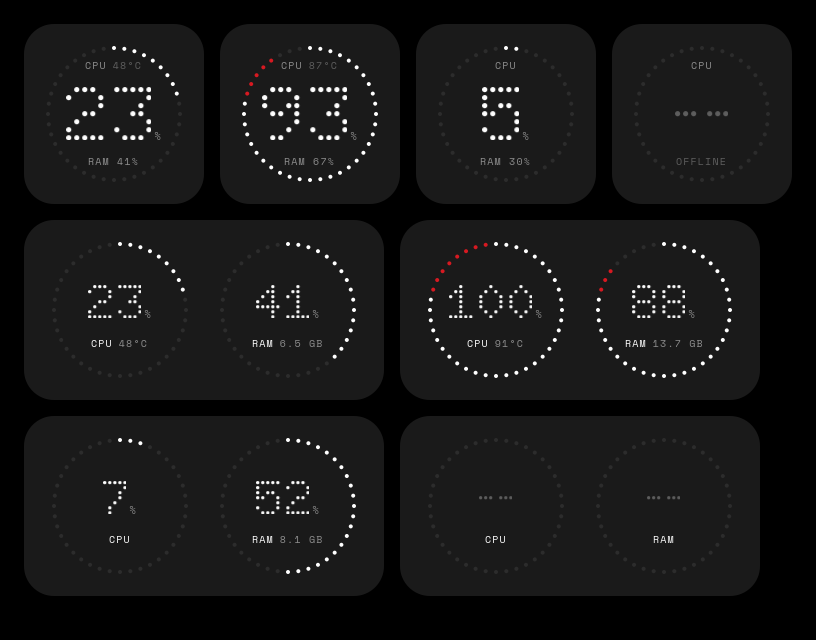
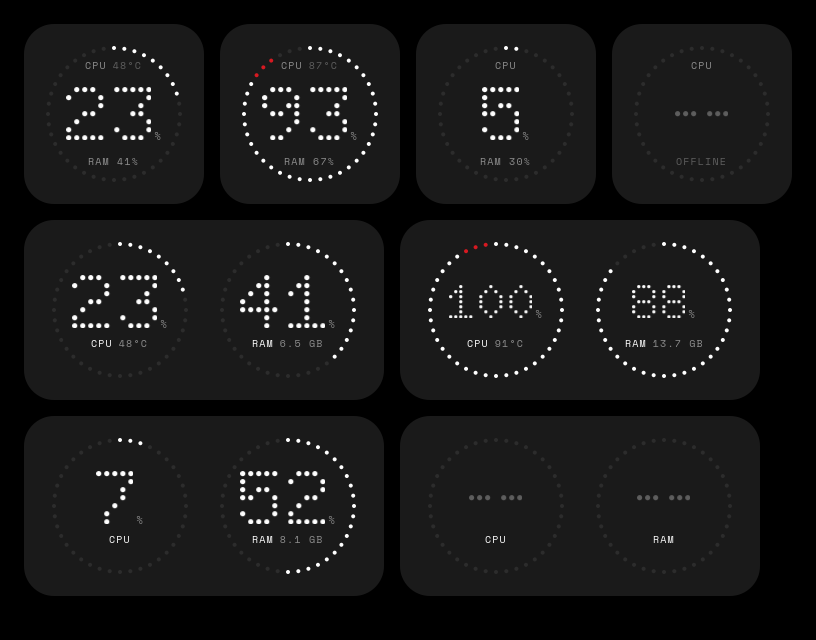
widgets: round 5

diff --git a/plasma/plasmoids/org.nothing.media/contents/ui/MediaFace.qml b/plasma/plasmoids/org.nothing.media/contents/ui/MediaFace.qml
@@ -39,7 +39,7 @@ Card {
         }
         Label {
             size: Math.max(10, Math.round(10 * root.u))
-            color: root.playing ? Theme.red : Theme.fg2
+            color: Theme.fg2
             text: root.playing ? "Now playing" : "Paused"
         }
     }
@@ -54,7 +54,7 @@ Card {
         DotGlyph {
             anchors.centerIn: parent
             anchors.horizontalCenterOffset: root.playing ? 0 : 1
-            width: 16; height: 16
+            width: Math.min(16, Math.round(parent.diameter * 0.4)); height: width
             icon: root.playing ? "pause" : "play"
             dimColor: "transparent"
             litColor: Theme.bg
@@ -117,10 +117,12 @@ Card {
                 litColor: Theme.fg2
             }
         }
+        // small disk at transport scale, aligned to the tile's bottom edge
         PlayButton {
             visible: root.hasMedia
-            anchors.right: parent.right; anchors.top: parent.top
-            diameter: Math.round(38 * root.u)
+            anchors.right: parent.right
+            y: portrait.height - height
+            diameter: Math.round(30 * root.u)
         }
         Column {
             id: band
@@ -147,21 +149,27 @@ Card {
             }
         }
 
-        // idle: vinyl + IDLE, nothing else
-        DotGlyph {
+        // idle: the black art tile with the vinyl inside, and IDLE in dots
+        Rectangle {
             visible: !root.hasMedia
-            x: -pitch * 0.14; y: -pitch * 0.14
-            width: Math.round(72 * root.u); height: width
-            icon: "vinyl"
-            dimColor: "transparent"
-            litColor: Theme.fg2
-            halfColor: Theme.fg2
+            width: Math.round(sq.height - idleText.height - 12 * root.u); height: width
+            radius: root.innerRadius
+            color: Theme.bg
+            DotGlyph {
+                anchors.centerIn: parent
+                width: parent.width * 0.66; height: width
+                icon: "vinyl"
+                dimColor: "transparent"
+                litColor: Theme.fg2
+                halfColor: Theme.fg2
+            }
         }
         DotString {
+            id: idleText
             visible: !root.hasMedia
             anchors.left: parent.left; anchors.bottom: parent.bottom
             text: "IDLE"
-            size: Math.max(40, Math.round(48 * root.u))
+            pitch: 5
             width: implicitWidth; height: implicitHeight
         }
     }
@@ -239,17 +247,16 @@ Card {
                 SkipButton { anchors.verticalCenter: parent.verticalCenter; glyph: "next"; can: root.canNext; onClicked: root.next() }
             }
 
-            // idle: IDLE + one caption
+            // idle: IDLE only
             Column {
                 visible: !root.hasMedia
                 anchors.left: parent.left; anchors.bottom: parent.bottom
                 spacing: Math.round(12 * root.u)
                 DotString {
                     text: "IDLE"
-                    size: Math.max(40, Math.round(56 * root.u))
+                    pitch: 5
                     width: implicitWidth; height: implicitHeight
                 }
-                Label { size: Math.max(10, Math.round(10 * root.u)); color: Theme.fg3; text: "No media" }
             }
         }
     }

diff --git a/plasma/plasmoids/org.nothing.weather/contents/ui/WeatherFace.qml b/plasma/plasmoids/org.nothing.weather/contents/ui/WeatherFace.qml
@@ -41,13 +41,13 @@ Card {
     }
     function deg(v) { return (v === null || v === undefined || isNaN(v)) ? "--" : Math.round(v) + "°"; }
     readonly property string hiLo: "H" + deg(hi) + " L" + deg(lo)
-    // Short condition names (≤10 chars, fits beside H/L): never ellipsised.
+    // Short condition names (≤14 chars; the wide footer runs at 10px): never ellipsised.
     readonly property string condition: {
         if (!live) return "NO DATA";
         const c = code;
-        if (c === null || c === undefined) return (desc || "").toUpperCase().slice(0, 10);
+        if (c === null || c === undefined) return (desc || "").toUpperCase().slice(0, 14);
         if (c <= 1) return "CLEAR";
-        if (c === 2) return "SOME CLOUD";
+        if (c === 2) return "PARTLY CLOUDY";
         if (c === 3) return "CLOUDY";
         if (c === 45 || c === 48) return "FOG";
         if (c >= 51 && c <= 57) return "DRIZZLE";
@@ -56,7 +56,7 @@ Card {
         if ((c >= 71 && c <= 77) || c === 85 || c === 86) return "SNOW";
         if (c >= 80 && c <= 82) return "SHOWERS";
         if (c >= 95) return "STORM";
-        return (desc || "").toUpperCase().slice(0, 10);
+        return (desc || "").toUpperCase().slice(0, 14);
     }
 
     padding: Math.round(20 * u)
@@ -99,7 +99,6 @@ Card {
             icon: root.glyph + "_s"
             dotRatio: 0.67
             dimColor: "transparent"
-            trimTop: true; trimBottom: true
             litColor: root.live ? Theme.fg : Theme.fg3
             halfColor: root.live ? Theme.fg2 : Theme.fg3
         }
@@ -165,15 +164,19 @@ Card {
             }
             Caption {
                 anchors.left: parent.left; anchors.bottom: parent.bottom
-                width: parent.width - wHl.implicitWidth - 8
+                width: parent.width - wHl.implicitWidth - 6
                 clip: true
                 text: root.condition
                 color: Theme.fg
+                font.pixelSize: Math.max(10, Math.round(10 * root.u))
+                font.letterSpacing: 0.6
             }
             Caption {
                 id: wHl
                 anchors.right: parent.right; anchors.bottom: parent.bottom
                 text: root.hiLo
+                font.pixelSize: Math.max(10, Math.round(10 * root.u))
+                font.letterSpacing: 0.6
             }
         }
     }

diff --git a/plasma/plasmoids/org.nothing.system/contents/ui/SystemFace.qml b/plasma/plasmoids/org.nothing.system/contents/ui/SystemFace.qml
@@ -39,10 +39,13 @@ Card {
         property real maxPitch: 8          // largest house pitch to try
         property real fixedPitch: 0        // > 0: always this pitch (shared by neighbours)
         property real numberOffset: 0
+        property bool mayWarn: true        // one red per widget: only the worst metric
         DotRing {
             anchors.fill: parent
             value: root.ok(g.value) ? g.value : 0
-            warn: 0.8                      // only dots past 80 % at the leading end turn red
+            warn: 0.8                      // only dots past 80 % …
+            warnTail: 3                    // … and only at the leading end of the fill
+            warnEnabled: g.mayWarn
             dots: 40
             dotSize: Math.max(3, 4 * root.u)
         }
@@ -121,7 +124,9 @@ Card {
                 id: wg
                 width: wideRow.d; height: width
                 value: modelData.v
-                fixedPitch: 5
+                // shared pitch 8; both drop to 5 only while either reads "100"
+                fixedPitch: root.pct(root.cpu).length > 2 || root.pct(root.mem).length > 2 ? 5 : 8
+                mayWarn: modelData.k === (root.ok(root.cpu) && root.ok(root.mem) && root.mem > root.cpu ? "RAM" : "CPU")
                 numberOffset: -Math.round(8 * root.u)
                 Row {
                     anchors.horizontalCenter: parent.horizontalCenter

diff --git a/plasma/plasmoids/shared/DotRing.qml b/plasma/plasmoids/shared/DotRing.qml
@@ -7,6 +7,8 @@ Canvas {
     property real value: 0
     property int dots: 40
     property real warn: 0.85
+    property bool warnEnabled: true    // false: never red (e.g. not the worst metric)
+    property int warnTail: 0           // > 0: only the last N lit dots past `warn` turn red
     property real dotSize: 4
     property real shown: value
     property color litColor: Theme.fg
@@ -18,6 +20,7 @@ Canvas {
     onHeightChanged: requestPaint()
     onTrackColorChanged: requestPaint()
     onLitColorChanged: requestPaint()
+    onWarnEnabledChanged: requestPaint()
     onPaint: {
         const ctx = getContext("2d");
         ctx.reset();
@@ -28,7 +31,8 @@ Canvas {
             const a = -Math.PI / 2 + i / dots * Math.PI * 2;
             ctx.beginPath();
             ctx.arc(cx + Math.cos(a) * rad, cy + Math.sin(a) * rad, dotSize / 2, 0, Math.PI * 2);
-            ctx.fillStyle = i < lit ? (i >= Math.floor(warn * dots) ? root.warnColor : root.litColor) : root.trackColor;
+            const red = root.warnEnabled && i >= Math.floor(warn * dots) && (root.warnTail <= 0 || i >= lit - root.warnTail);
+            ctx.fillStyle = i < lit ? (red ? root.warnColor : root.litColor) : root.trackColor;
             ctx.fill();
         }
     }

diff --git a/plasma/plasmoids/shared/Theme.qml b/plasma/plasmoids/shared/Theme.qml
@@ -17,7 +17,6 @@ QtObject {
     readonly property color fg3: "#5e5e5e"
     readonly property color red: "#d71921"
 
-    readonly property string dot: "Doto"
     readonly property string sans: "Space Grotesk"
     readonly property string mono: "Space Mono"
     readonly property string icons: "Material Symbols Rounded"

diff --git a/plasma/plasmoids/shared/doticons.js b/plasma/plasmoids/shared/doticons.js
@@ -217,9 +217,9 @@ var icons = {
         ".#####.",
         "#######",
         ".......",
-        "..+..+.",
-        ".+..+..",
-        "+..+..."
+        ".+.+.+.",
+        ".+.+.+.",
+        "......."
     ],
     "snow_s": [
         "..###..",

diff --git a/ARCHITECTURE.md b/ARCHITECTURE.md
@@ -18,7 +18,8 @@ small Rust daemon for data. No separate shell process.
 
 ## Shared UI kit
 `plasma/plasmoids/shared/` (QML, no Plasma deps, has `qmldir` with singleton `Theme`):
-Theme, Icon, DotText, Label, Pressable, Tile, NSlider, DotRing, Card.
+Theme, Icon, Label, Pressable, Tile, NSlider, DotRing, Card, DotString, DotTime, DotGlyph, ArtCanvas
+(dot type: DotString `pitch` in house steps 5/8/12/15 via `Theme.dotPitch()`, dots 0.65 × pitch).
 Every plasmoid gets a copy at `contents/ui/nothing/` at install time
 (`scripts/build-plasmoids.sh`) and uses `import "nothing"`.
 
